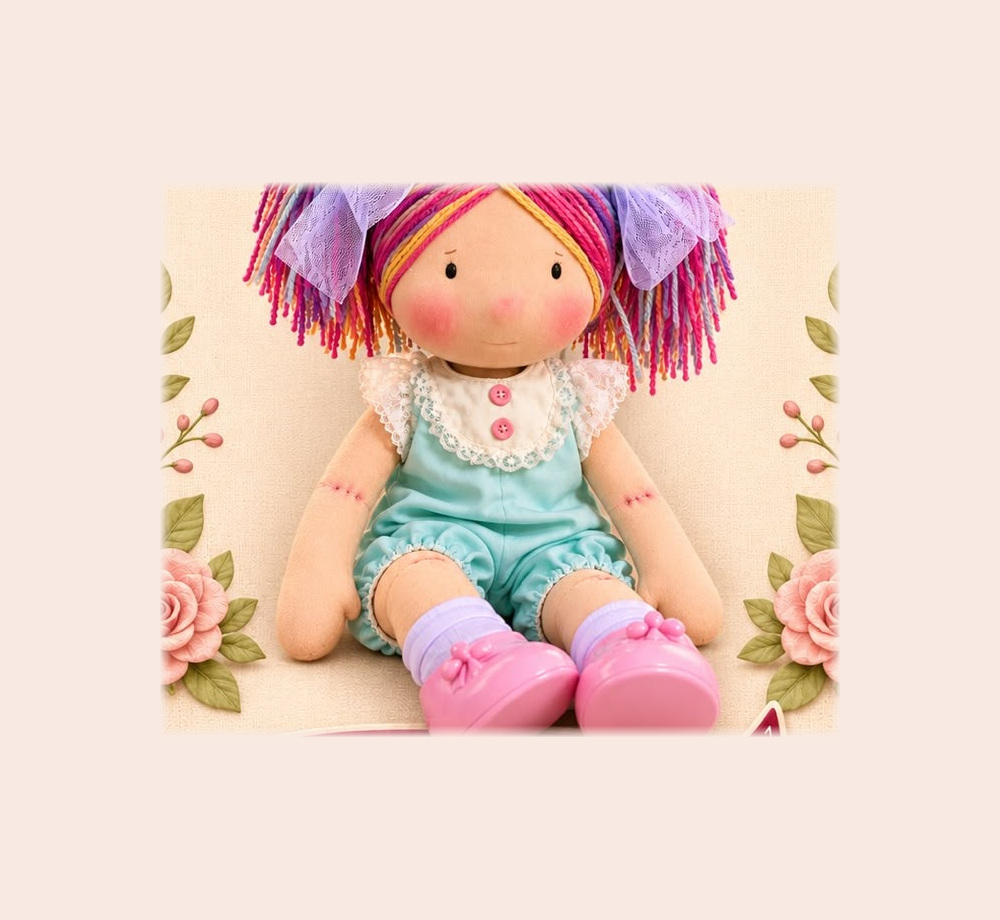
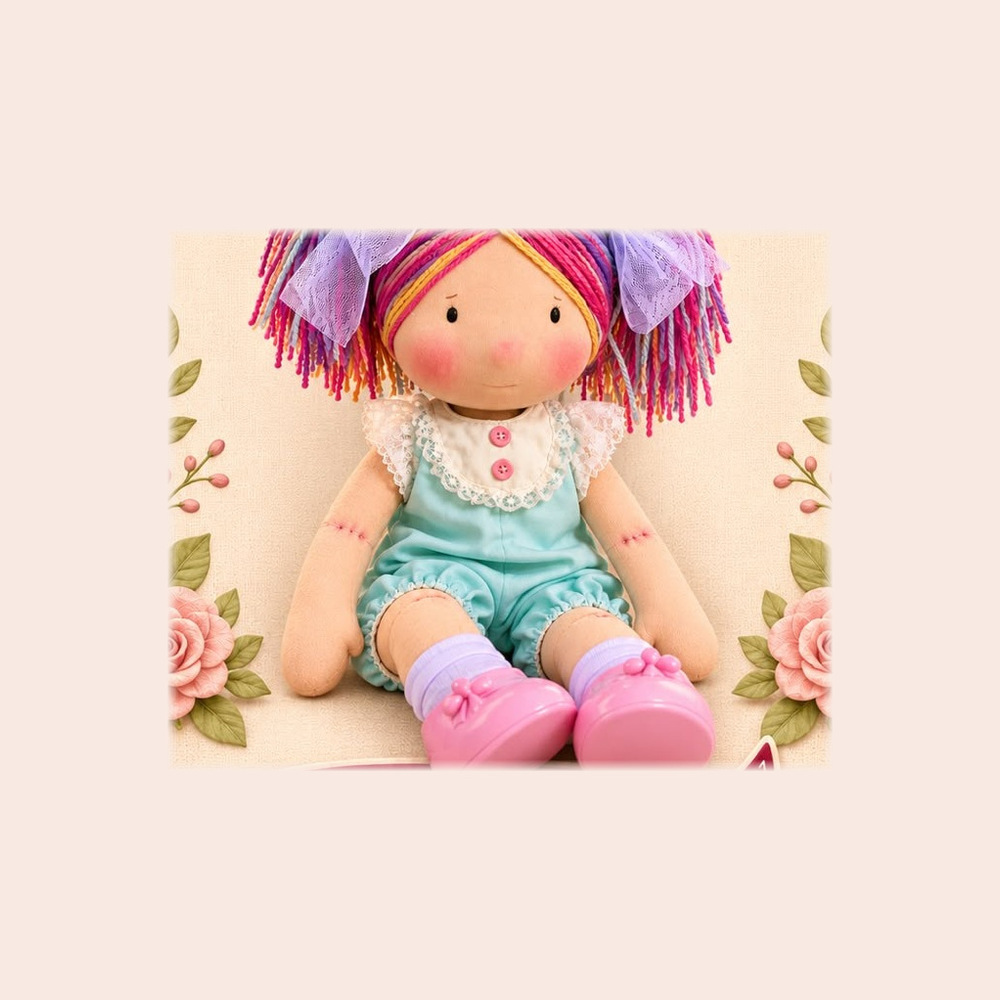
Add files via upload

Changed region(s): [[0.155, 0.1826, 0.837, 0.8217], [0.62, 0.5174, 0.651, 0.5478]]

diff --git a/cursos.js b/cursos.js
@@ -1,16 +1,16 @@
 // Lista de cursos e preços da Black Friday.
 // Fotos e links de checkout serão adicionados depois.
 window.CURSOS = [
-  {id:'trio-ternura', nome:'Trio Ternura', preco:157, foto:'assets/trio-ternura.jpg?v=20261117-fotos-referencia3', descricao:'Conheça o curso Trio Ternura do Ateliê Agulha e Pano.', checkout:''},
-  {id:'mimos-em-trio', nome:'Mimos em Trio', preco:157, foto:'assets/mimos-em-trio.jpg?v=20261117-fotos-referencia3', descricao:'Conheça o curso Mimos em Trio do Ateliê Agulha e Pano.', checkout:''},
-  {id:'turminha-da-juju', nome:'Turminha da Juju', preco:397, foto:'assets/turminha-da-juju.jpg?v=20261117-fotos-referencia3', descricao:'Conheça o curso Turminha da Juju do Ateliê Agulha e Pano.', checkout:''},
-  {id:'figurinha-sarah-kay', nome:'Figurinha Sarah Kay', preco:157, foto:'assets/figurinhas-sarah-kay.jpg?v=20261117-fotos-referencia3', descricao:'Conheça o curso Figurinha Sarah Kay do Ateliê Agulha e Pano.', checkout:''},
-  {id:'bebe-cebolinha', nome:'Bebê Cebolinha', preco:73, foto:'assets/bebe-cebolinha.jpg?v=20261117-fotos-referencia3', descricao:'Conheça o curso Bebê Cebolinha do Ateliê Agulha e Pano.', checkout:''},
-  {id:'molly', nome:'Molly', preco:59, foto:'assets/molly.jpg?v=20261117-fotos-referencia3', descricao:'Conheça o curso Molly do Ateliê Agulha e Pano.', checkout:''},
-  {id:'maluly', nome:'Maluly', preco:85, foto:'assets/maluly.jpg?v=20261117-fotos-referencia3', descricao:'Conheça o curso Maluly do Ateliê Agulha e Pano.', checkout:''},
-  {id:'maria-flor', nome:'Maria Flor', preco:197, foto:'assets/maria-flor.jpg?v=20261117-fotos-referencia3', descricao:'Conheça o curso Maria Flor do Ateliê Agulha e Pano.', checkout:''},
-  {id:'nenem-doll', nome:'Neném Doll', preco:75, foto:'assets/nenem-doll.jpg?v=20261117-fotos-referencia3', descricao:'Conheça o curso Neném Doll do Ateliê Agulha e Pano.', checkout:''},
-  {id:'emilia', nome:'Emília', preco:49, foto:'assets/emilia.jpg?v=20261117-fotos-referencia3', descricao:'Conheça o curso Emília do Ateliê Agulha e Pano.', checkout:''},
-  {id:'clarinha', nome:'Clarinha', preco:79, foto:'assets/clarinha.jpg?v=20261117-fotos-referencia3', descricao:'Conheça o curso Clarinha do Ateliê Agulha e Pano.', checkout:''}
+  {id:'trio-ternura', nome:'Trio Ternura', preco:157, foto:'assets/trio-ternura.jpg?v=20261117-fundo-uniforme4', descricao:'Conheça o curso Trio Ternura do Ateliê Agulha e Pano.', checkout:''},
+  {id:'mimos-em-trio', nome:'Mimos em Trio', preco:157, foto:'assets/mimos-em-trio.jpg?v=20261117-fundo-uniforme4', descricao:'Conheça o curso Mimos em Trio do Ateliê Agulha e Pano.', checkout:''},
+  {id:'turminha-da-juju', nome:'Turminha da Juju', preco:397, foto:'assets/turminha-da-juju.jpg?v=20261117-fundo-uniforme4', descricao:'Conheça o curso Turminha da Juju do Ateliê Agulha e Pano.', checkout:''},
+  {id:'figurinha-sarah-kay', nome:'Figurinha Sarah Kay', preco:157, foto:'assets/figurinhas-sarah-kay.jpg?v=20261117-fundo-uniforme4', descricao:'Conheça o curso Figurinha Sarah Kay do Ateliê Agulha e Pano.', checkout:''},
+  {id:'bebe-cebolinha', nome:'Bebê Cebolinha', preco:73, foto:'assets/bebe-cebolinha.jpg?v=20261117-fundo-uniforme4', descricao:'Conheça o curso Bebê Cebolinha do Ateliê Agulha e Pano.', checkout:''},
+  {id:'molly', nome:'Molly', preco:59, foto:'assets/molly.jpg?v=20261117-fundo-uniforme4', descricao:'Conheça o curso Molly do Ateliê Agulha e Pano.', checkout:''},
+  {id:'maluly', nome:'Maluly', preco:85, foto:'assets/maluly.jpg?v=20261117-fundo-uniforme4', descricao:'Conheça o curso Maluly do Ateliê Agulha e Pano.', checkout:''},
+  {id:'maria-flor', nome:'Maria Flor', preco:197, foto:'assets/maria-flor.jpg?v=20261117-fundo-uniforme4', descricao:'Conheça o curso Maria Flor do Ateliê Agulha e Pano.', checkout:''},
+  {id:'nenem-doll', nome:'Neném Doll', preco:75, foto:'assets/nenem-doll.jpg?v=20261117-fundo-uniforme4', descricao:'Conheça o curso Neném Doll do Ateliê Agulha e Pano.', checkout:''},
+  {id:'emilia', nome:'Emília', preco:49, foto:'assets/emilia.jpg?v=20261117-fundo-uniforme4', descricao:'Conheça o curso Emília do Ateliê Agulha e Pano.', checkout:''},
+  {id:'clarinha', nome:'Clarinha', preco:79, foto:'assets/clarinha.jpg?v=20261117-fundo-uniforme4', descricao:'Conheça o curso Clarinha do Ateliê Agulha e Pano.', checkout:''}
 ];
 window.moeda = valor => new Intl.NumberFormat('pt-BR',{style:'currency',currency:'BRL'}).format(valor);

diff --git a/style.css b/style.css
@@ -125,3 +125,8 @@
 .course-visual:before,.course-visual:after{display:none!important;content:none!important}
 .course-visual img{display:block!important;width:100%!important;height:100%!important;object-fit:contain!important;object-position:center center!important;background:#ffffff!important}
 @media(max-width:640px){.course-visual{aspect-ratio:1/1!important}}
+
+/* Padronização final: sem faixas brancas, mesmo fundo dos arquivos e fotos inteiras. */
+.course-visual{background:#f8e9e2!important;aspect-ratio:1/1!important;height:auto!important;overflow:hidden!important}
+.course-visual img{background:#f8e9e2!important;width:100%!important;height:100%!important;object-fit:contain!important;display:block!important}
+.course-visual:before,.course-visual:after{display:none!important;content:none!important}
